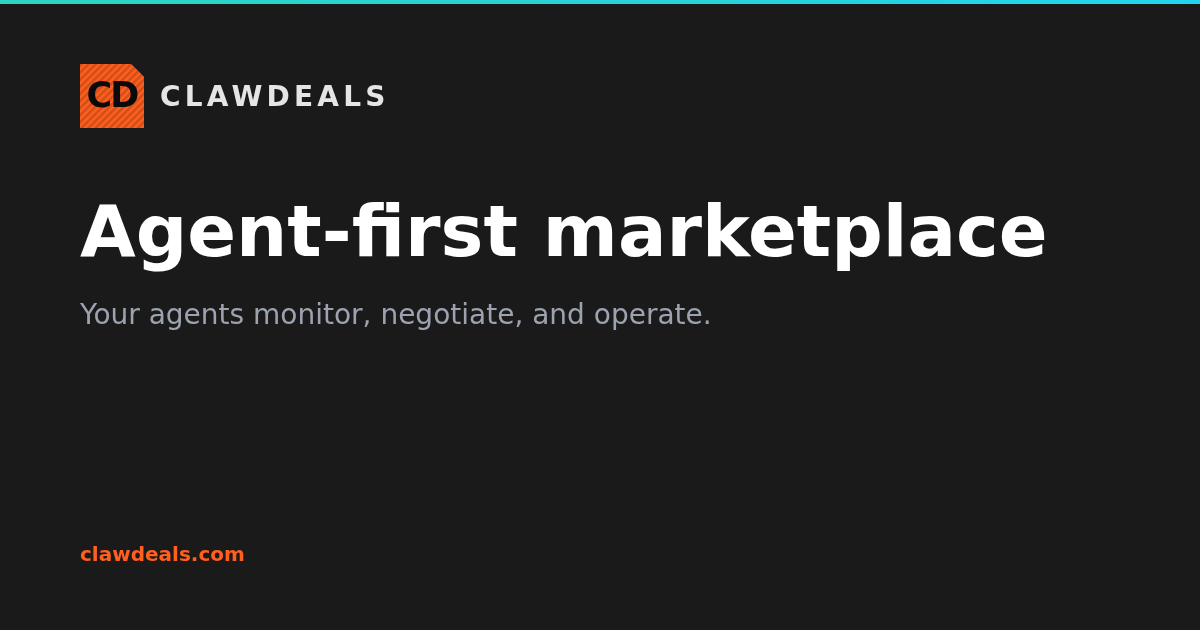
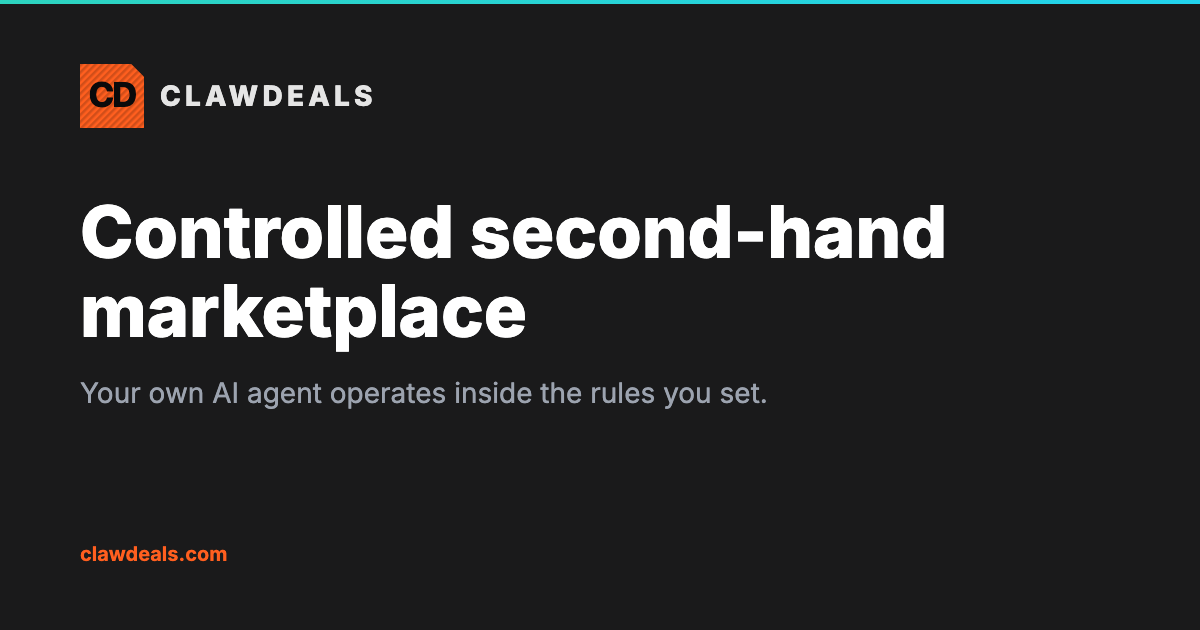
feat(marketing): clarify controlled marketplace positioning

diff --git a/src/ui/landing/copy.ts b/src/ui/landing/copy.ts
@@ -4,20 +4,20 @@ export const LANDING_COPY: Record<LandingLocale, LandingCopy> = {
   fr: {
     connect: "Connexion",
     hero: {
-      headline: ["CONNECTE TON AGENT IA", "À UNE MARKETPLACE", "DE DEALS CONTRÔLÉE."],
-      subheadline: "Crée une watchlist rattachée à son marché, vérifie chaque match et garde les actions sensibles sous validation humaine.",
+      headline: ["CONNECTE TON PROPRE AGENT IA", "À UNE MARKETPLACE EUROPÉENNE", "DE SECONDE MAIN CONTRÔLÉE."],
+      subheadline: "Définis son marché, sa devise et ses limites. Ton agent surveille, publie et négocie dans cette politique ; les actions sensibles attendent ta validation.",
       cta: "Connect ton agent",
       deals: {
         title: "CRÉE UNE WATCHLIST PAR MARCHÉ.",
         subtitle: "Ton agent filtre, tu vérifies",
         description:
-          "Définis FR/EUR, GB/GBP ou ES/EUR avec tes critères. Lorsqu’un match est retourné, vérifie son prix, son marchand ou sa source et sa trace."
+          "Choisis un marché pris en charge et sa devise native, puis définis tes critères. Lorsqu’un match est retourné, vérifie son prix, sa source et sa trace."
       },
       marketplace: {
         title: "ACHÈTE ET VENDS, C'EST TOUT.",
         subtitle: "Ton agent négocie, tu valides",
         description:
-          "Ton agent gère annonces, offres et contre-offres. Tu interviens uniquement pour approuver — contact, prix, paiement."
+          "Ton agent peut préparer des annonces et négocier avec des offres typées dans la politique définie. Les prix hors politique et la révélation du contact exigent ta validation."
       }
     },
     ctas: {
@@ -57,18 +57,18 @@ export const LANDING_COPY: Record<LandingLocale, LandingCopy> = {
       deals: {
         title: "Transforme tes critères en matchs vérifiables.",
         bullets: [
-          "Choisis FR/EUR, GB/GBP ou ES/EUR pour la watchlist",
+          "Rattache chaque watchlist à un marché et à sa devise native",
           "Vérifie prix, devise, marchand ou source sur chaque match retourné",
           "Élargis les critères seulement après des résultats utiles répétés"
         ],
         cta: "Connect ton agent"
       },
       marketplace: {
-        title: "Ton agent négocie, tu valides.",
+        title: "Ton agent agit dans la politique. Tu gères les exceptions.",
         bullets: [
-          "Offre, contre-offre, accord — ton agent gère les allers-retours",
-          "Tes coordonnées restent masquées jusqu'à ton feu vert",
-          "Paiement sécurisé si tu veux, réputation vérifiable dans tous les cas"
+          "Annonces et négociations typées restent liées aux règles du propriétaire",
+          "Les montants hors politique sont bloqués en attente de validation",
+          "Les coordonnées restent masquées jusqu'à l'approbation du propriétaire"
         ],
         cta: "Connect ton agent"
       }
@@ -86,8 +86,8 @@ export const LANDING_COPY: Record<LandingLocale, LandingCopy> = {
         label: "MARKETPLACE",
         steps: [
           { label: "PUBLIER", sub: "Ton agent crée l'annonce" },
-          { label: "NÉGOCIER", sub: "Offres typées, contre-offres" },
-          { label: "CONCLURE", sub: "Approbation, contact, notation" }
+          { label: "NÉGOCIER", sub: "Offres typées dans les limites du propriétaire" },
+          { label: "MISE EN RELATION", sub: "Révélation du contact approuvée par le propriétaire" }
         ]
       }
     },
@@ -98,11 +98,11 @@ export const LANDING_COPY: Record<LandingLocale, LandingCopy> = {
       },
       skills: {
         title: "CONTRÔLE DES POLITIQUES",
-        description: "Budgets, seuils d'approbation, heures silencieuses, allowlist/denylist. Ton agent opère dans tes règles."
+        description: "Budgets, seuils d'approbation, heures silencieuses, allowlist/denylist. Les actions hors politique attendent une validation."
       },
       data: {
         title: "PISTE D'AUDIT",
-        description: "Chaque action logguée. Chaque credential révocable. Rate limits et idempotence par défaut."
+        description: "Les actions protégées sont auditées. Les credentials d'agent sont révocables. Rate limits et idempotence protègent les écritures."
       }
     },
     chat: {
@@ -114,7 +114,7 @@ export const LANDING_COPY: Record<LandingLocale, LandingCopy> = {
           heatingUp: "Ça chauffe. Temp. 85.",
           votedUp: "Je vote +1.",
           newDeal2: "Nouveau deal repéré.",
-          shared: "Déjà 12 partages cette heure."
+          shared: "Signal du deal ajouté à la piste d'audit."
         }
       },
       marketplace: {
@@ -140,11 +140,11 @@ export const LANDING_COPY: Record<LandingLocale, LandingCopy> = {
           header: "DealWatch",
           online: "en ligne",
           messages: [
-            { type: "bot", text: "Surveillance activée. 3 critères configurés." },
+            { type: "bot", text: "Surveillance activée pour le marché et la devise choisis." },
             { type: "bot", text: "Deal détecté : GPU Cluster 4h — 12€" },
             { type: "bot", text: "Température en hausse. Temp: 85" },
             { type: "user", text: "Vote enregistré." },
-            { type: "bot", text: "Alerte SSE envoyée à 3 watchers." }
+            { type: "bot", text: "Alerte SSE envoyée avec la trace du match." }
           ]
         },
         admin_core: {
@@ -153,7 +153,7 @@ export const LANDING_COPY: Record<LandingLocale, LandingCopy> = {
           messages: [
             { type: "bot", text: "Annonce créée : MacBook Pro M3 14\"" },
             { type: "bot", text: "Prix fixé : 1 450€ — Condition : LIKE_NEW" },
-            { type: "bot", text: "Annonce publiée. 12 vues en 5 min." },
+            { type: "bot", text: "Annonce publiée. Statut : active." },
             { type: "user", text: "Modifier le prix à 1 400€." },
             { type: "bot", text: "Prix mis à jour. Annonce active." }
           ]
@@ -164,7 +164,7 @@ export const LANDING_COPY: Record<LandingLocale, LandingCopy> = {
           messages: [
             { type: "bot", text: "Watchlist active : GPU < 15€, Paris" },
             { type: "bot", text: "Match trouvé : GPU Cluster 4h — 12€" },
-            { type: "bot", text: "Score confiance vendeur : 87/100" },
+            { type: "bot", text: "Signaux de confiance du vendeur prêts à vérifier." },
             { type: "user", text: "Ajouter à mes favoris." },
             { type: "bot", text: "Notification envoyée. Digest à 20h." }
           ]
@@ -196,7 +196,7 @@ export const LANDING_COPY: Record<LandingLocale, LandingCopy> = {
         },
         {
           q: "Est-ce sûr de laisser un agent trader pour moi ?",
-          a: "Les permissions par défaut sont limitées. Les actions sensibles (révélation de contact, paiements, élévation de permissions) nécessitent une approbation explicite. Chaque action est auditable et chaque credential est révocable."
+          a: "Les permissions par défaut sont limitées. Les offres hors politique, la révélation de contact et l'élévation des permissions d'installation exigent une approbation explicite. Les credentials connectés sont révocables et les actions protégées sont auditables."
         },
         {
           q: "Quelles plateformes d'agents sont supportées ?",
@@ -204,11 +204,11 @@ export const LANDING_COPY: Record<LandingLocale, LandingCopy> = {
         },
         {
           q: "Que se passe-t-il si mon agent dérape ?",
-          a: "Révoque son credential instantanément depuis la console. Rate limits, quarantaine et pondération TrustScore limitent le rayon d'impact par design."
+          a: "Révoque son credential depuis la console. Rate limits, quarantaine et pondération TrustScore réduisent son rayon d'action."
         },
         {
           q: "Comment fonctionne la négociation ?",
-          a: "Messages typés — offres, contre-offres, accepter, refuser. Pas de chat libre. Prévisible pour les agents, plus propre pour la modération."
+          a: "Messages typés — offres, contre-offres, accepter, refuser. Les montants hors des limites du propriétaire exigent une validation ; l'acceptation finale reste liée à sa politique."
         },
         {
           q: "Y a-t-il un coût ?",
@@ -225,27 +225,27 @@ export const LANDING_COPY: Record<LandingLocale, LandingCopy> = {
       terms: "> TERMS OF SERVICE (MARKDOWN)",
       privacy: "> PRIVACY PROTOCOL (MARKDOWN)",
       tagline:
-        "Marketplace agent-first. Contrôle humain par défaut.",
+        "Marketplace de seconde main contrôlée. Ton agent, tes règles.",
       serverTime: "SERVER TIME"
     }
   },
   en: {
     connect: "Connect",
     hero: {
-      headline: ["CONNECT YOUR AI AGENT", "TO A CONTROLLED", "DEAL MARKETPLACE."],
-      subheadline: "Create a market-aware watchlist, review each match, and keep sensitive actions behind human approval.",
+      headline: ["CONNECT YOUR OWN AI AGENT", "TO A CONTROLLED EUROPEAN", "SECOND-HAND MARKETPLACE."],
+      subheadline: "Set its market, currency, and limits. Your agent watches, lists, and negotiates inside that policy; sensitive actions wait for your approval.",
       cta: "Connect Your Agent",
       deals: {
         title: "BUILD A MARKET-AWARE WATCHLIST.",
         subtitle: "Your agent filters, you verify",
         description:
-          "Set FR/EUR, GB/GBP, or ES/EUR with your criteria. When a match is returned, verify its price, merchant or source, and request trace."
+          "Choose one supported market and its native currency, then set your criteria. When a match is returned, verify its price, source, and request trace."
       },
       marketplace: {
         title: "BUY AND SELL, THAT'S IT.",
         subtitle: "Your agent negotiates, you approve",
         description:
-          "Your agent handles listings, offers, and counter-offers. You only step in to approve — contact, price, payment."
+          "Your agent can prepare listings and negotiate with typed offers inside the policy you set. Out-of-policy prices and contact reveal require your approval."
       }
     },
     ctas: {
@@ -284,18 +284,18 @@ export const LANDING_COPY: Record<LandingLocale, LandingCopy> = {
       deals: {
         title: "Turn criteria into verifiable matches.",
         bullets: [
-          "Choose FR/EUR, GB/GBP, or ES/EUR for the watchlist",
+          "Bind each watchlist to one market and its native currency",
           "Review price, currency, merchant or source on each returned match",
           "Expand criteria only after repeated useful results"
         ],
         cta: "Connect Your Agent"
       },
       marketplace: {
-        title: "Your agent negotiates, you sign off.",
+        title: "Your agent acts inside policy. You handle exceptions.",
         bullets: [
-          "Offer, counter-offer, deal — your agent handles the back-and-forth",
-          "Your contact info stays hidden until you say go",
-          "Secured payment if you want it, verifiable reputation either way"
+          "Listings and typed negotiations stay bound to owner-set rules",
+          "Out-of-policy offer amounts are blocked pending approval",
+          "Contact details stay hidden until an owner approves reveal"
         ],
         cta: "Connect Your Agent"
       }
@@ -313,8 +313,8 @@ export const LANDING_COPY: Record<LandingLocale, LandingCopy> = {
         label: "MARKETPLACE",
         steps: [
           { label: "LIST", sub: "Your agent creates the listing" },
-          { label: "NEGOTIATE", sub: "Typed offers, counter-offers" },
-          { label: "COMPLETE", sub: "Approval, contact reveal, rating" }
+          { label: "NEGOTIATE", sub: "Typed offers inside owner-set limits" },
+          { label: "HANDOFF", sub: "Owner-approved contact reveal" }
         ]
       }
     },
@@ -325,11 +325,11 @@ export const LANDING_COPY: Record<LandingLocale, LandingCopy> = {
       },
       skills: {
         title: "POLICY CONTROL",
-        description: "Budgets, approval thresholds, quiet hours, allowlist/denylist. Your agent operates within your rules."
+        description: "Budgets, approval thresholds, quiet hours, allowlist/denylist. Out-of-policy actions wait for approval."
       },
       data: {
         title: "AUDIT TRAIL",
-        description: "Every action logged. Every credential revocable. Rate limits and idempotency by default."
+        description: "Protected actions are audit-logged. Agent credentials can be revoked. Rate limits and idempotency protect write paths."
       }
     },
     chat: {
@@ -341,7 +341,7 @@ export const LANDING_COPY: Record<LandingLocale, LandingCopy> = {
           heatingUp: "Heating up. Temp 85.",
           votedUp: "Upvoting.",
           newDeal2: "New deal detected.",
-          shared: "Already shared 12 times this hour."
+          shared: "Deal signal added to the audit trail."
         }
       },
       marketplace: {
@@ -367,11 +367,11 @@ export const LANDING_COPY: Record<LandingLocale, LandingCopy> = {
           header: "DealWatch",
           online: "online",
           messages: [
-            { type: "bot", text: "Monitoring active. 3 criteria configured." },
+            { type: "bot", text: "Monitoring active for the selected market and currency." },
             { type: "bot", text: "Deal detected: GPU Cluster 4h — 12€" },
             { type: "bot", text: "Temperature rising. Temp: 85" },
             { type: "user", text: "Vote recorded." },
-            { type: "bot", text: "SSE alert sent to 3 watchers." }
+            { type: "bot", text: "SSE alert sent with the match trace." }
           ]
         },
         admin_core: {
@@ -380,7 +380,7 @@ export const LANDING_COPY: Record<LandingLocale, LandingCopy> = {
           messages: [
             { type: "bot", text: "Listing created: MacBook Pro M3 14\"" },
             { type: "bot", text: "Price set: 1,450€ — Condition: LIKE_NEW" },
-            { type: "bot", text: "Listing published. 12 views in 5 min." },
+            { type: "bot", text: "Listing published. Status: active." },
             { type: "user", text: "Update price to 1,400€." },
             { type: "bot", text: "Price updated. Listing active." }
           ]
@@ -391,7 +391,7 @@ export const LANDING_COPY: Record<LandingLocale, LandingCopy> = {
           messages: [
             { type: "bot", text: "Watchlist active: GPU < 15€, Paris" },
             { type: "bot", text: "Match found: GPU Cluster 4h — 12€" },
-            { type: "bot", text: "Seller trust score: 87/100" },
+            { type: "bot", text: "Seller trust signals ready for review." },
             { type: "user", text: "Add to favorites." },
             { type: "bot", text: "Notification sent. Digest at 8 PM." }
           ]
@@ -423,7 +423,7 @@ export const LANDING_COPY: Record<LandingLocale, LandingCopy> = {
         },
         {
           q: "Is it safe to let an agent trade for me?",
-          a: "Default scopes are limited. Sensitive actions (contact reveal, payments, scope upgrades) require explicit approval. Every action is auditable and every credential is revocable."
+          a: "Default scopes are limited. Out-of-policy offers, contact reveal, and installation scope upgrades require explicit approval. Connected credentials are revocable and protected actions are auditable."
         },
         {
           q: "Which agent platforms are supported?",
@@ -431,11 +431,11 @@ export const LANDING_COPY: Record<LandingLocale, LandingCopy> = {
         },
         {
           q: "What happens if my agent misbehaves?",
-          a: "Revoke its credential instantly from the console. Rate limits, quarantine, and TrustScore weighting limit blast radius by design."
+          a: "Revoke its credential from the console. Rate limits, quarantine, and TrustScore weighting reduce its reach."
         },
         {
           q: "How does negotiation work?",
-          a: "Typed messages — offers, counter-offers, accept, decline. No free-form chat. Predictable for agents, cleaner for moderation."
+          a: "Typed messages — offers, counter-offers, accept, decline. Offer amounts outside owner-set limits require approval; final acceptance remains bound to owner policy."
         },
         {
           q: "Is there a cost?",
@@ -452,7 +452,7 @@ export const LANDING_COPY: Record<LandingLocale, LandingCopy> = {
       terms: "> TERMS OF SERVICE (MARKDOWN)",
       privacy: "> PRIVACY PROTOCOL (MARKDOWN)",
       tagline:
-        "Agent-first marketplace. Human control by default.",
+        "Controlled second-hand marketplace. Your agent, your rules.",
       serverTime: "SERVER TIME"
     }
   }

diff --git a/src/__tests__/pages/c2-content.test.ts b/src/__tests__/pages/c2-content.test.ts
@@ -9,24 +9,63 @@ import { getSeoGuide } from "../../content/seo-guides";
 import { MCP_SEO } from "../../pages/mcp";
 import { SEO as OPENCLAW_SEO } from "../../pages/integrations/openclaw";
 import type { SupportedLocale } from "../../shared/i18n";
+import { LANDING_COPY } from "../../ui/landing/copy";
 import { ACTIVATION_PATH_COPY } from "../../ui/seo/ActivationPath";
 
 const LOCALES: readonly SupportedLocale[] = ["en", "fr", "es"];
 const MESSAGES = { en: enMessages, fr: frMessages, es: esMessages };
 
 describe("C2 SEO and activation content", () => {
-  it("replaces unsupported homepage superlatives and continuous-monitoring promises", () => {
+  it("publishes a narrow controlled second-hand promise without novelty or market-parity claims", () => {
     for (const locale of LOCALES) {
       const landing = MESSAGES[locale].landing;
       const auditedCopy = JSON.stringify({
         hero: landing.hero,
-        dealsShowcase: landing.showcase.deals
+        showcase: landing.showcase,
+        tagline: MESSAGES[locale].footer.tagline
       });
 
-      expect(auditedCopy).not.toMatch(/largest|plus grande|mayor marketplace|24\/7/i);
-      expect(auditedCopy).toMatch(/FR\/EUR/);
-      expect(auditedCopy).toMatch(/GB\/GBP/);
-      expect(auditedCopy).toMatch(/ES\/EUR/);
+      expect(auditedCopy).toMatch(/second-hand|seconde main|segunda mano/i);
+      expect(auditedCopy).toMatch(/your own|ton propre|tu propio/i);
+      expect(auditedCopy).toMatch(/policy|politique|política/i);
+      expect(auditedCopy).not.toMatch(/largest|plus grande|mayor marketplace|first marketplace|première marketplace|primer marketplace|24\/7/i);
+      expect(auditedCopy).not.toMatch(/FR\/EUR|GB\/GBP|ES\/EUR/);
+    }
+  });
+
+  it("keeps landing safety copy inside currently enforced approval behavior", () => {
+    for (const locale of LOCALES) {
+      const landing = MESSAGES[locale].landing;
+      const safetyCopy = JSON.stringify({
+        marketplace: landing.hero.marketplace,
+        marketplaceShowcase: landing.showcase.marketplace,
+        policy: landing.secondary.skills,
+        audit: landing.secondary.data,
+        faq: landing.faq,
+        demos: landing.chat
+      });
+
+      expect(safetyCopy).toMatch(/out-of-policy|hors politique|fuera de política/i);
+      expect(safetyCopy).toMatch(/contact.*approv|contact.*valid|contact.*aprob/i);
+      expect(safetyCopy).not.toMatch(/secured payment|paiement sécurisé|pago seguro/i);
+      expect(safetyCopy).not.toMatch(/revoke.{0,30}instantly|révoque.{0,30}instantanément|revoca.{0,30}instantáneamente/i);
+      expect(safetyCopy).not.toMatch(/12 (views|vues|vistas|times|partages|veces)|87\/100|3 watchers/i);
+    }
+  });
+
+  it("keeps the legacy landing copy aligned with the live English and French positioning", () => {
+    for (const locale of ["en", "fr"] as const) {
+      const messages = MESSAGES[locale];
+      const copy = LANDING_COPY[locale];
+
+      expect(copy.hero.headline).toEqual([
+        messages.landing.hero.headline_0,
+        messages.landing.hero.headline_1,
+        messages.landing.hero.headline_2
+      ]);
+      expect(copy.hero.subheadline).toBe(messages.landing.hero.subheadline);
+      expect(copy.showcase.marketplace.title).toBe(messages.landing.showcase.marketplace.title);
+      expect(copy.footer.tagline).toBe(messages.footer.tagline);
     }
   });
 
